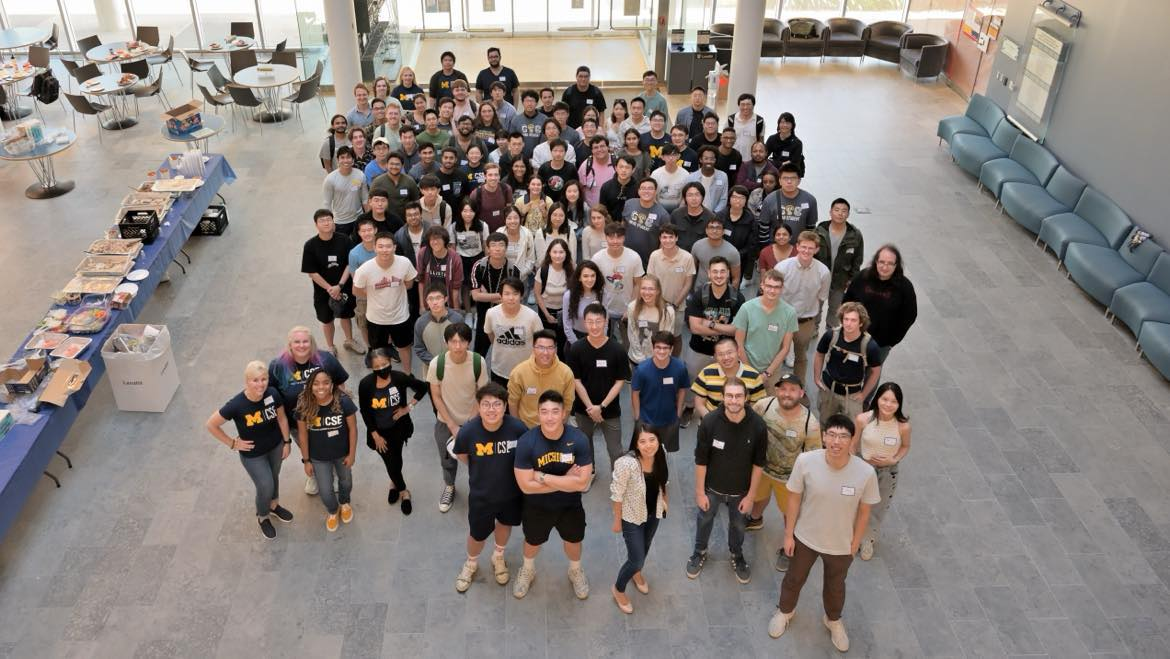
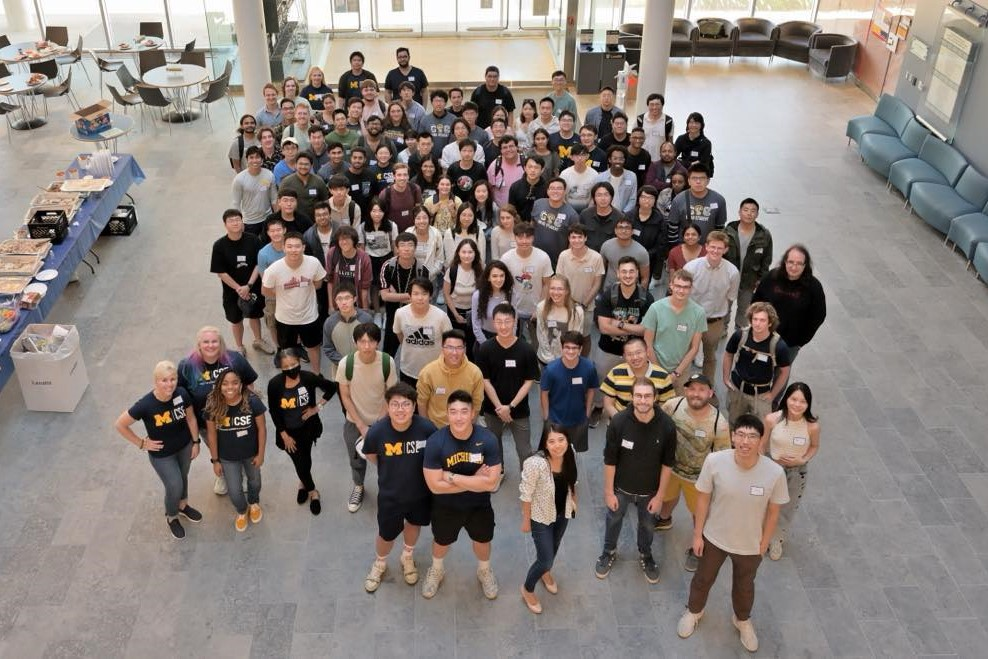
picture size

diff --git a/update_feed.html b/update_feed.html
@@ -57,7 +57,7 @@
 
 										<div class="col-4 col-12-medium"></div>
 											<div class="row">
-												<a href="#" class="image"><img src="images/cseg.jpg" alt="" /></a>
+												<a href="#" class="image fit "><img src="images/cseg.jpg" alt="" /></a>
 												<br>
 												<h3> May 2024: Elected CSEG Recruitment Chair </h3>
 											</div>
